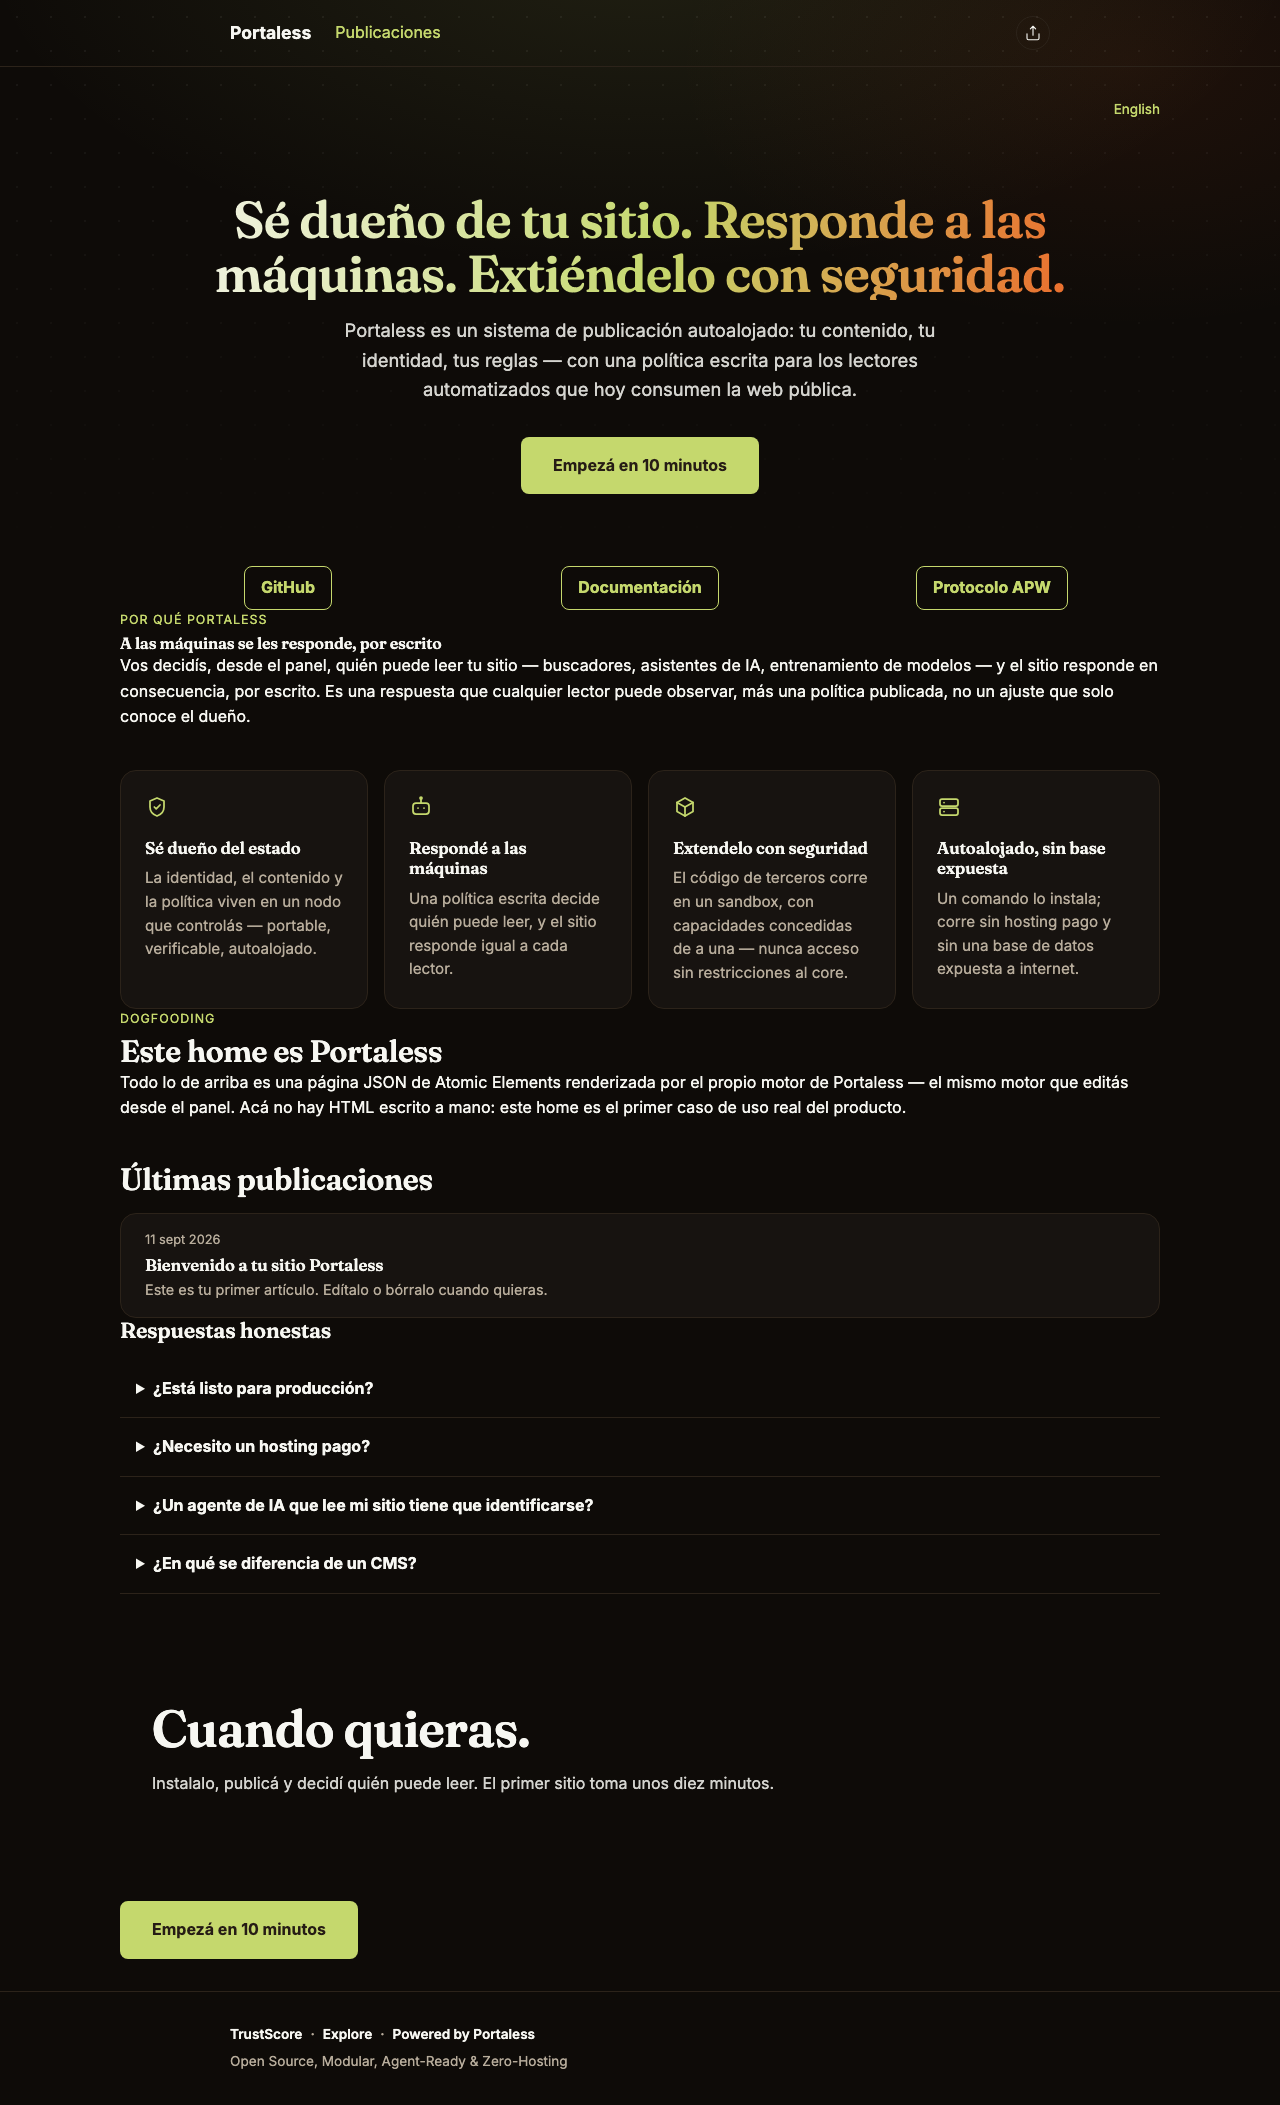
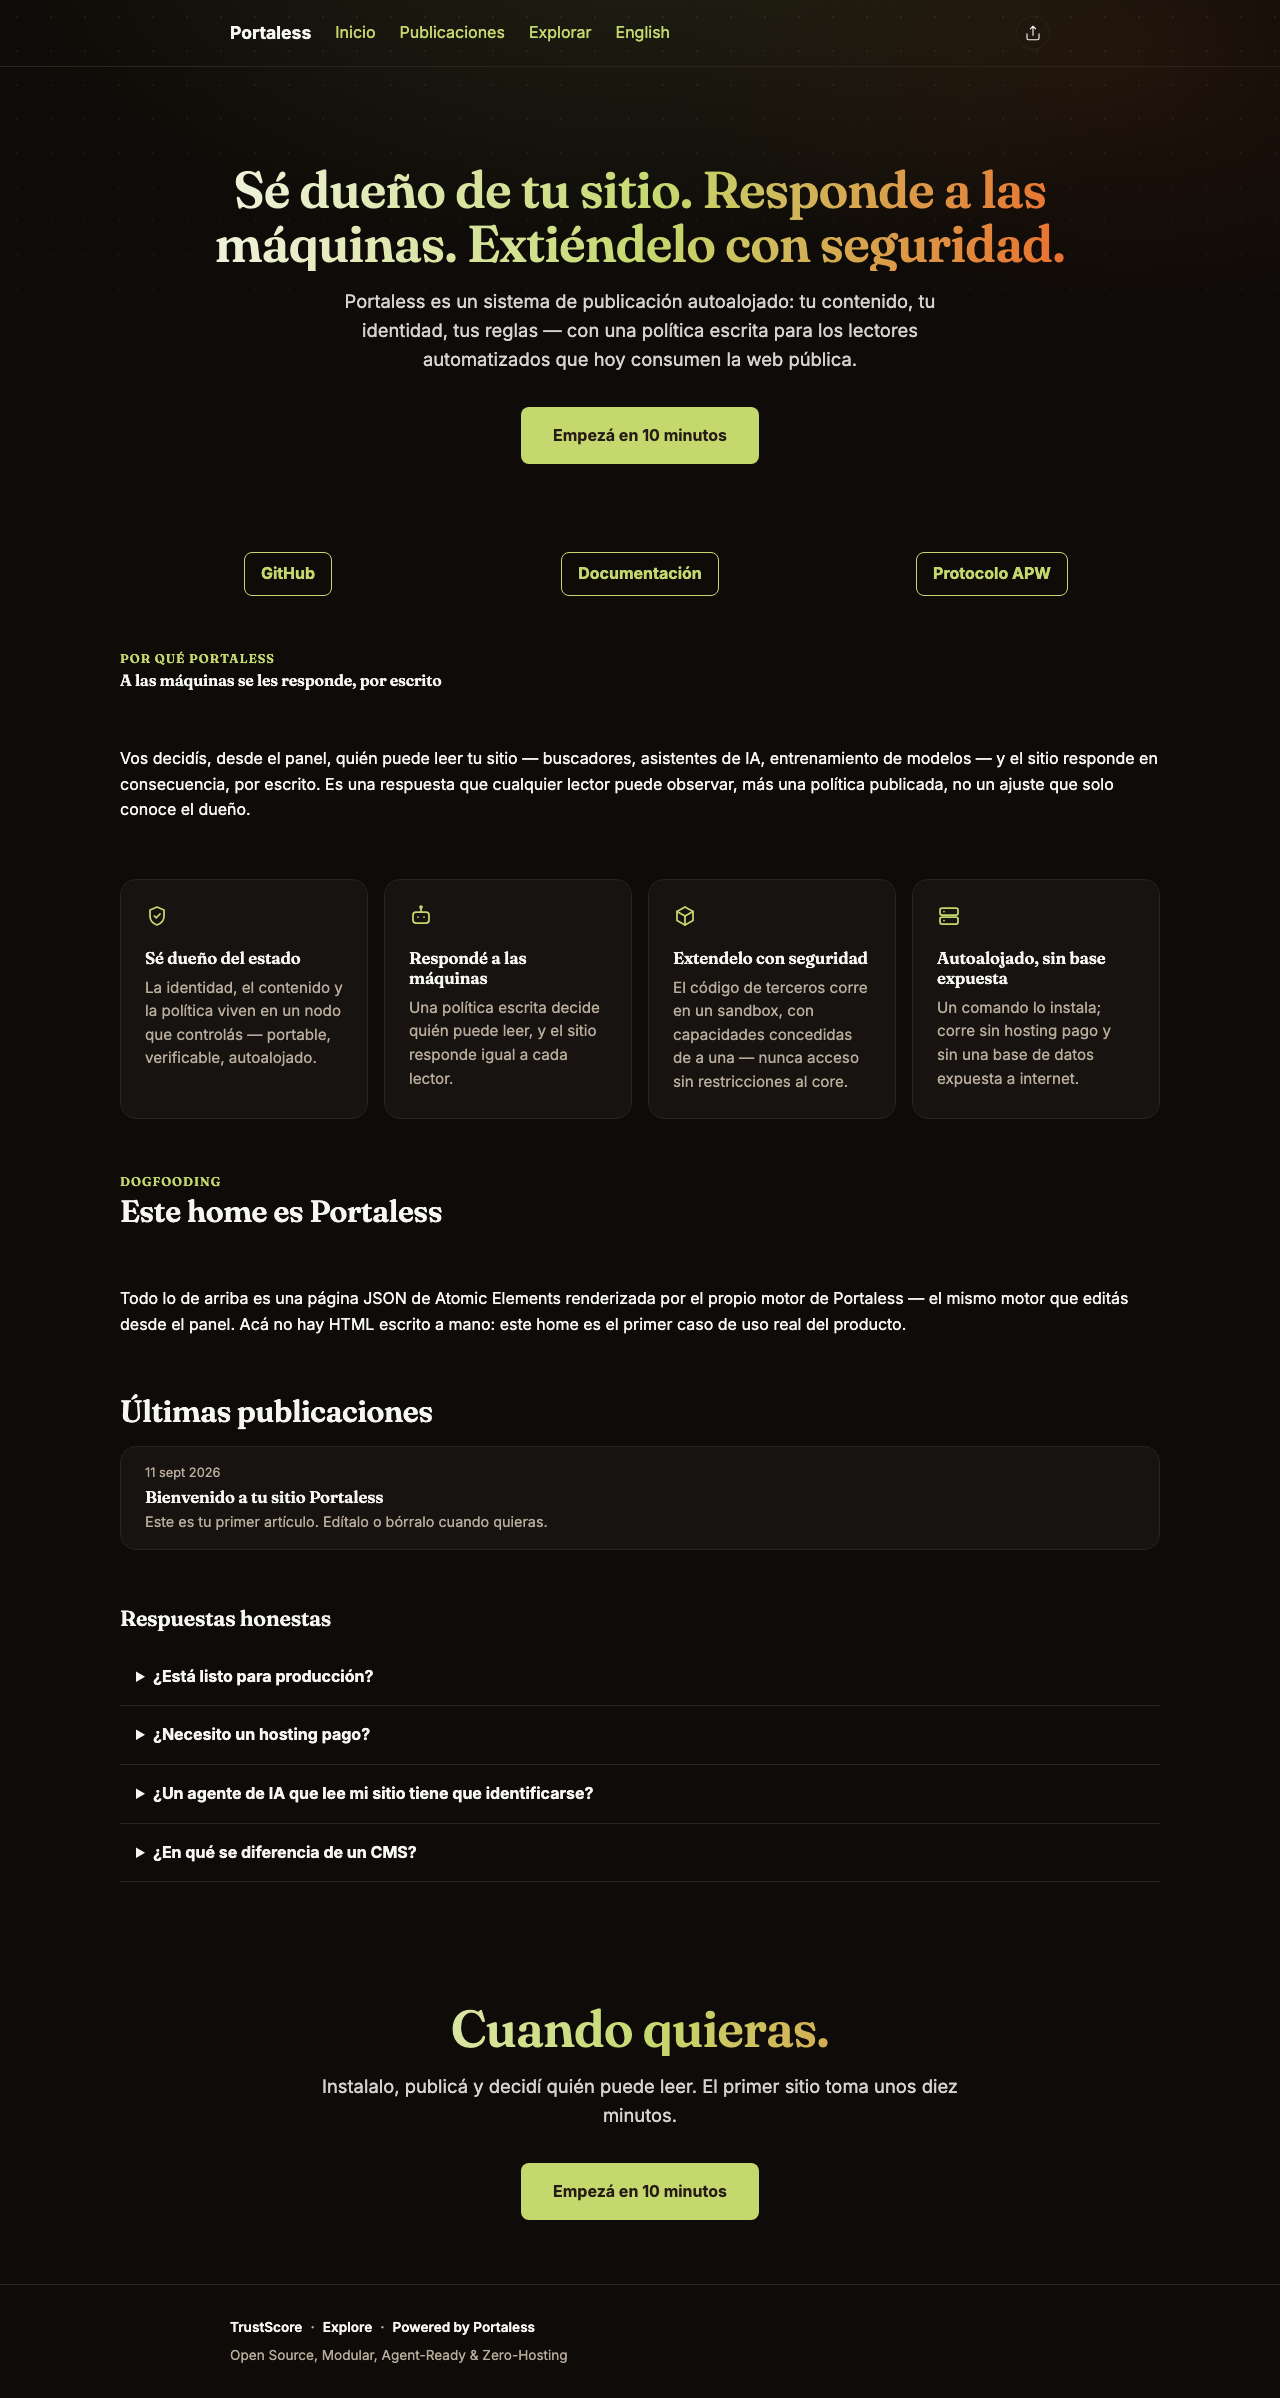
Home: wider, even section spacing, and the eyebrow stays with its heading
The spacing between sections was cramped around the proof strip and the
"Why Portaless" heading, and uneven elsewhere. Two causes fixed:

- The Heading eyebrow variant emitted the eyebrow as a SIBLING of the heading,
  so it did not inherit the heading alignment and any gap-based layout
  separated it from its title. It now goes INSIDE the heading element.
- The home used margin-top on children, which the elements inline margin:0
  overrode. It now uses a flex column with a uniform gap (56px), which inline
  margins cannot cancel.

The closing CTA was a standalone Button and, as a direct child of the flex
column, stretched to full width; it is now the CTA inside a spotlight hero, so
it stays sized and centered.

Verified: vitest run (189 files / 1725 passed), npm run build (42 pages).
Screenshots: public-home.png + public-home-es.png regenerated.

diff --git a/packages/atomic-elements/src/elements/registry.ts b/packages/atomic-elements/src/elements/registry.ts
@@ -266,11 +266,16 @@ const Heading: ElementDefinition<HeadingProps> = {
     const level = p.level ?? "h2";
     const fontSize = HEADING_SIZES[size];
     const style = `text-align:${p.align};margin:0;${fontSize ? `font-size:${fontSize};` : ""}`;
-    const pre = variant === "eyebrow" && String(p.eyebrow ?? "").trim()
+    const eyebrowSpan = variant === "eyebrow" && String(p.eyebrow ?? "").trim()
       ? `<span style="display:block;font-size:.78rem;text-transform:uppercase;letter-spacing:.08em;color:var(--accent-text, #5A6B24);margin:0 0 ${space(1)};">${esc(p.eyebrow)}</span>`
       : "";
     const post = variant === "ruled" ? `border-bottom:1px solid var(--panel-border, #E4E6C3);padding-bottom:${space(2)};` : "";
-    return `${pre}<${level} style="${style}${post}">${esc(p.text)}</${level}>`;
+    // El antetitulo va DENTRO del encabezado (no como hermano): asi hereda la
+    // alineacion del heading y el heading sigue siendo UN solo elemento, que es
+    // lo que necesita un layout por gap. Como hermano, un contenedor con gap lo
+    // separaba de su titulo y quedaba alineado a la izquierda aunque el heading
+    // fuera centrado.
+    return `<${level} style="${style}${post}">${eyebrowSpan}${esc(p.text)}</${level}>`;
   },
 };
 
